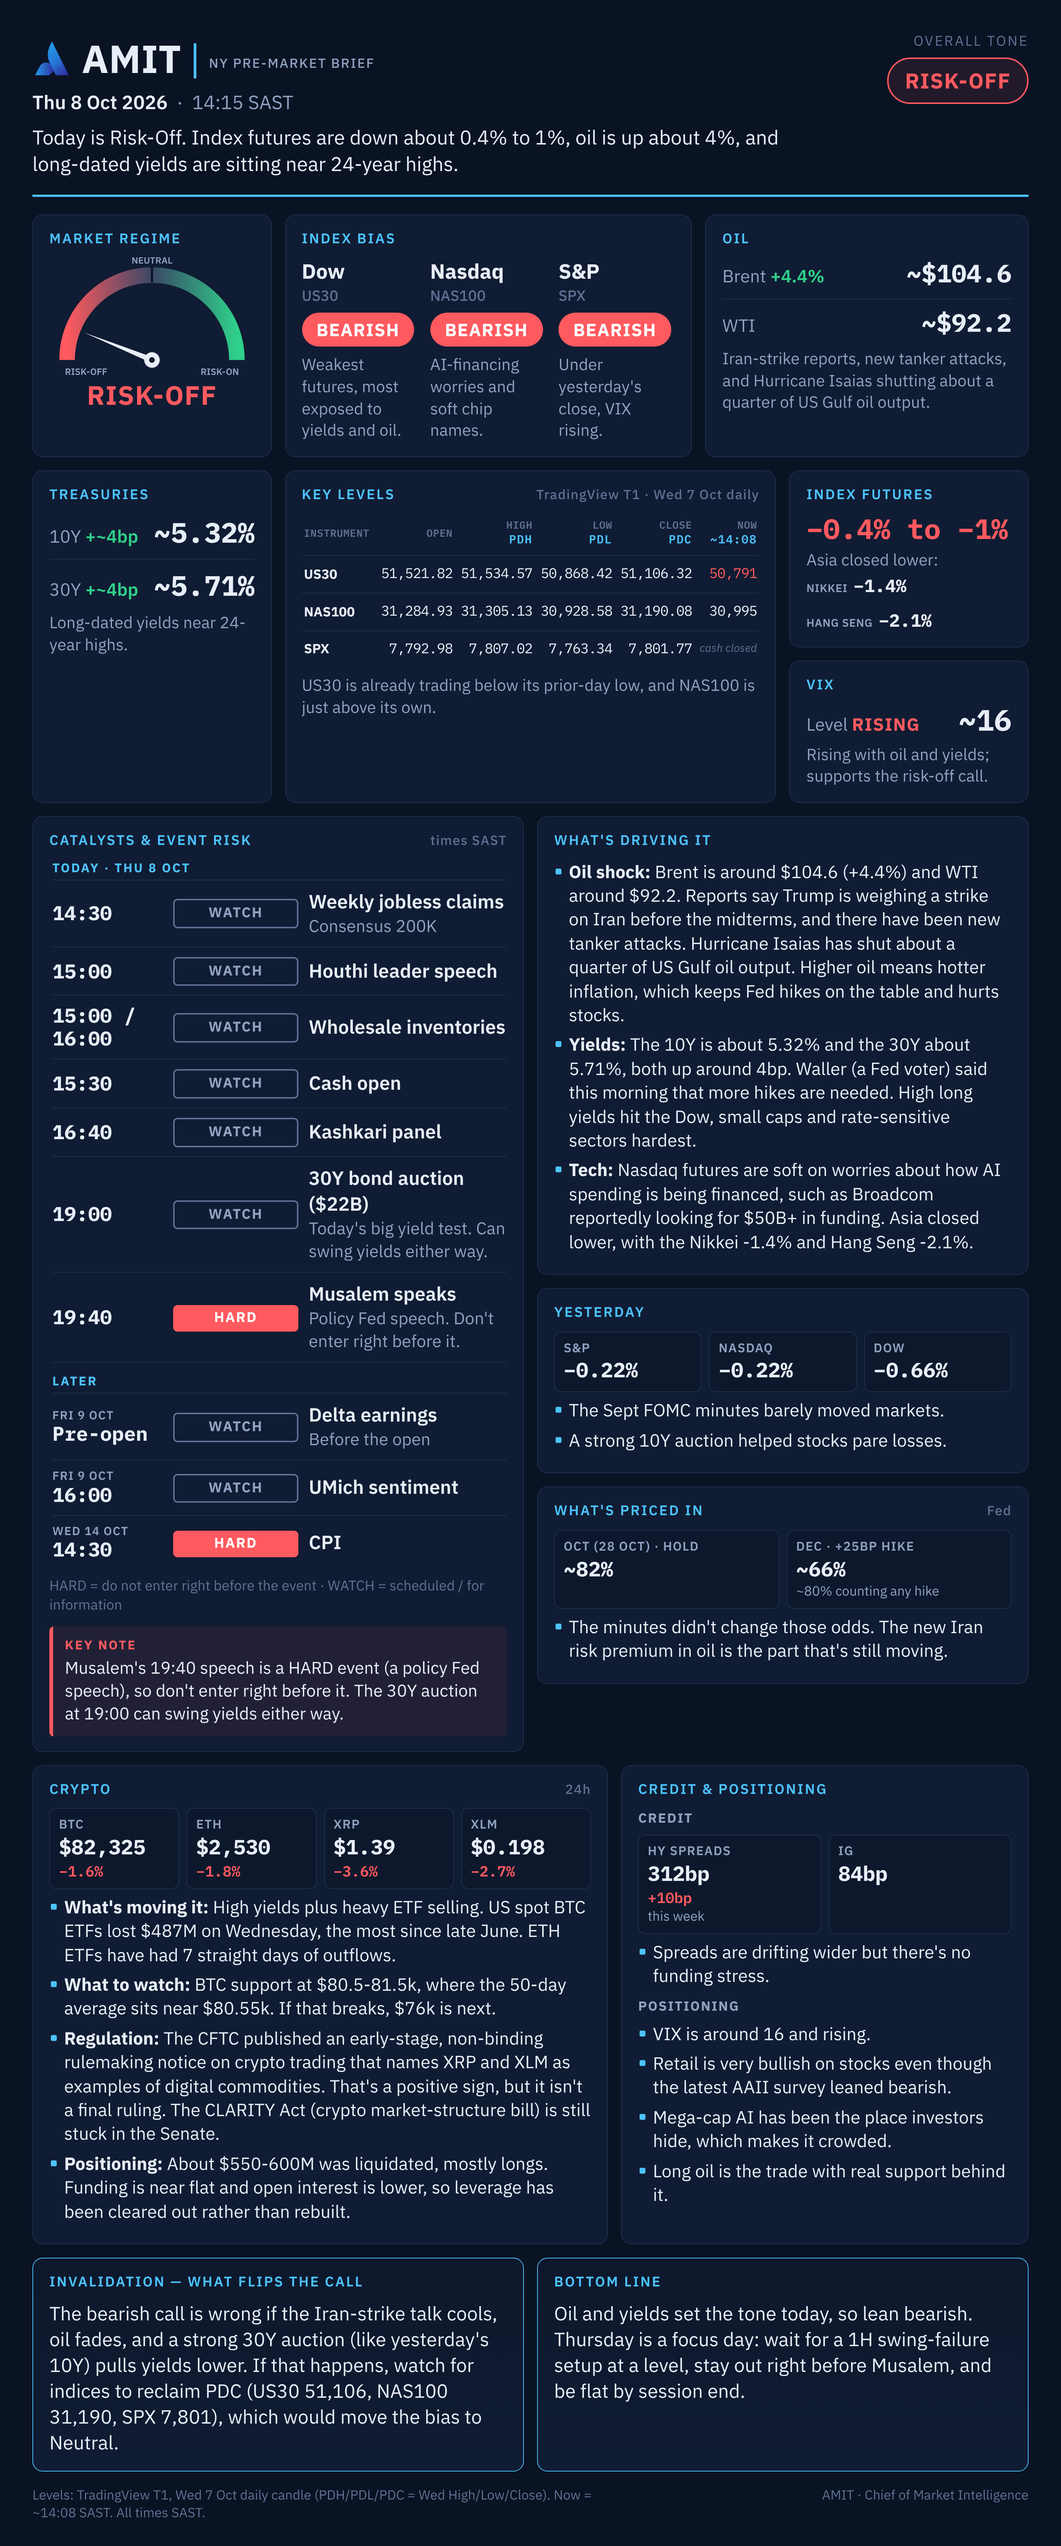
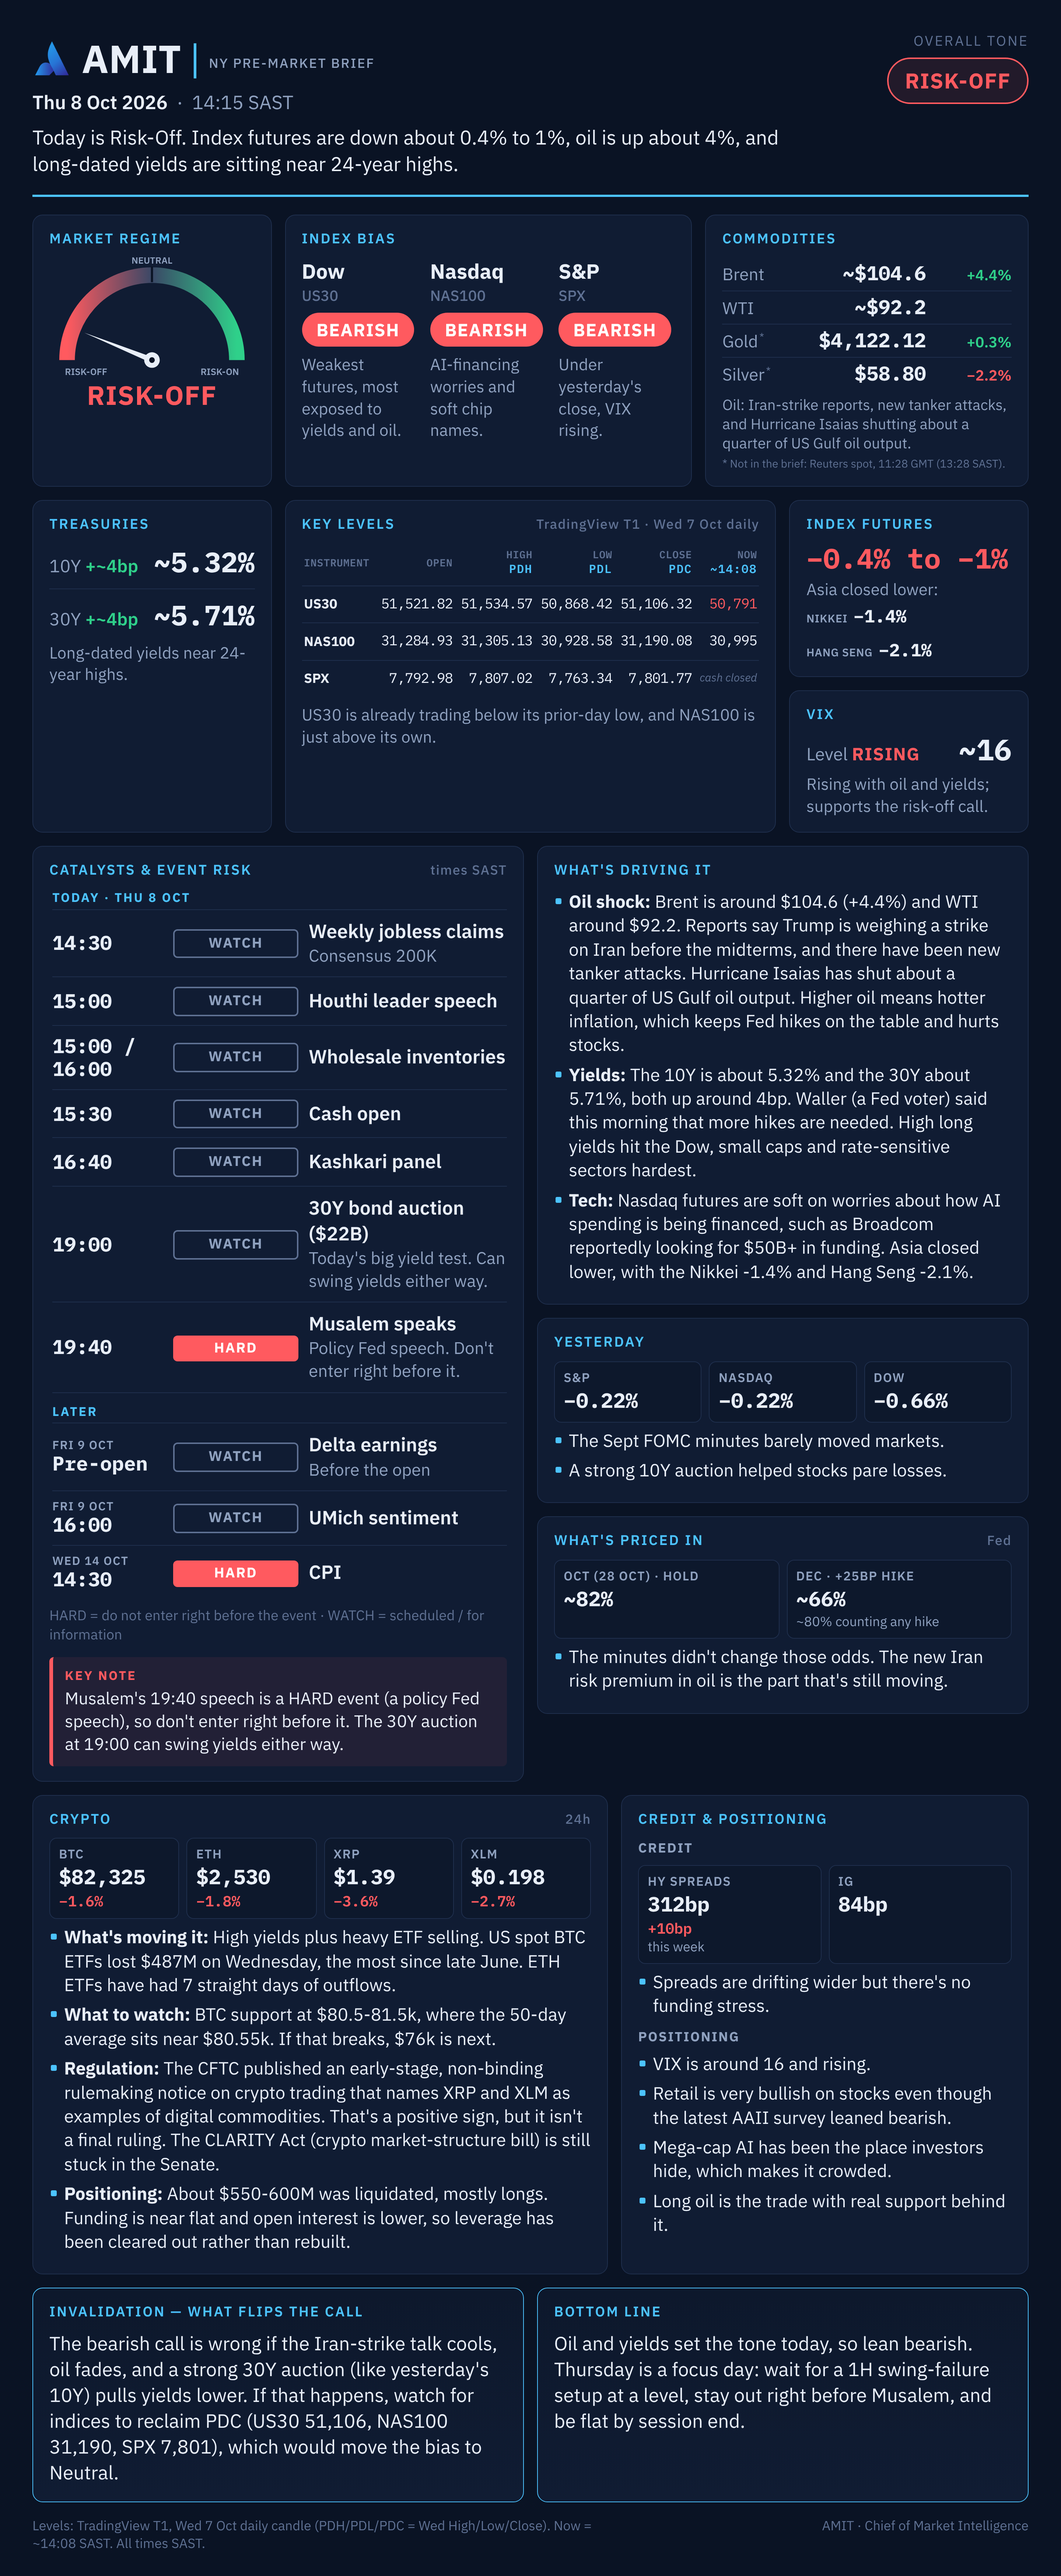
Commodities panel

diff --git a/index.html b/index.html
@@ -207,6 +207,18 @@
   .a-fut .st .sv{font-size:24px}
   .a-vix .ph{margin-bottom:6px}
   .a-vix .note{margin-top:6px}
+
+  /* ===== Commodities panel ===== */
+  .cmd{display:flex;flex-direction:column}
+  .cr{display:grid;grid-template-columns:1fr auto 104px;align-items:baseline;gap:12px;padding:4px 0;border-bottom:1px solid var(--line)}
+  .cr:last-child{border-bottom:none}
+  .cr .cn{color:var(--muted);font-size:23px;white-space:nowrap}
+  .cr .cn sup{color:var(--dim);font-size:14px;margin-left:2px}
+  .cr .cv{font-size:27px;font-weight:700;white-space:nowrap}
+  .cr .cc{font-size:20px;font-weight:600;text-align:right;white-space:nowrap}
+  .cr .na3{color:var(--dim);font-size:16px;font-style:italic;text-align:right}
+  .a-cmd .note{margin-top:6px;font-size:20px;line-height:1.3}
+  .a-cmd .csrc{color:var(--dim);font-size:15px;margin-top:6px;line-height:1.3}
 </style>
 <meta name="viewport" content="width=device-width, initial-scale=1">
 <style id="fitcss">html,body{margin:0}</style>
@@ -282,11 +294,12 @@ window.addEventListener('resize',fit);document.addEventListener('DOMContentLoade
       <div style="display:grid;grid-template-columns:repeat(3,1fr);gap:16px"><div class="bias"><div class="idx">Dow<span class="tick">US30</span></div><span class="pill bearish">Bearish</span><div class="why">Weakest futures, most exposed to yields and oil.</div></div><div class="bias"><div class="idx">Nasdaq<span class="tick">NAS100</span></div><span class="pill bearish">Bearish</span><div class="why">AI-financing worries and soft chip names.</div></div><div class="bias"><div class="idx">S&amp;P<span class="tick">SPX</span></div><span class="pill bearish">Bearish</span><div class="why">Under yesterday&#x27;s close, VIX rising.</div></div></div>
     </section>
 
-    <section class="panel a-oil span2 kpi">
-      <div class="ph">Oil</div>
-      <div class="row"><span class="k">Brent <span class="chg up">+4.4%</span></span><span class="v mono">~$104.6</span></div>
-      <div class="row"><span class="k">WTI</span><span class="v mono">~$92.2</span></div>
-      <div class="note">Iran-strike reports, new tanker attacks, and Hurricane Isaias shutting about a quarter of US Gulf oil output.</div>
+    <!-- Commodities panel (Row 1 slot, span 4). Rows from JSON commodities[]; Brent + WTI required. -->
+    <section class="panel a-oil a-cmd">
+      <div class="ph">Commodities</div>
+      <div class="cmd"><div class="cr"><span class="cn">Brent</span><span class="cv mono">~$104.6</span><span class="cc up">+4.4%</span></div><div class="cr"><span class="cn">WTI</span><span class="cv mono">~$92.2</span><span></span></div><div class="cr"><span class="cn">Gold<sup>*</sup></span><span class="cv mono">$4,122.12</span><span class="cc up">+0.3%</span></div><div class="cr"><span class="cn">Silver<sup>*</sup></span><span class="cv mono">$58.80</span><span class="cc down">−2.2%</span></div></div>
+      <div class="note">Oil: Iran-strike reports, new tanker attacks, and Hurricane Isaias shutting about a quarter of US Gulf oil output.</div>
+      <div class="csrc">* Not in the brief: Reuters spot, 11:28 GMT (13:28 SAST).</div>
     </section>
 
     <section class="panel a-ust span2 kpi">
